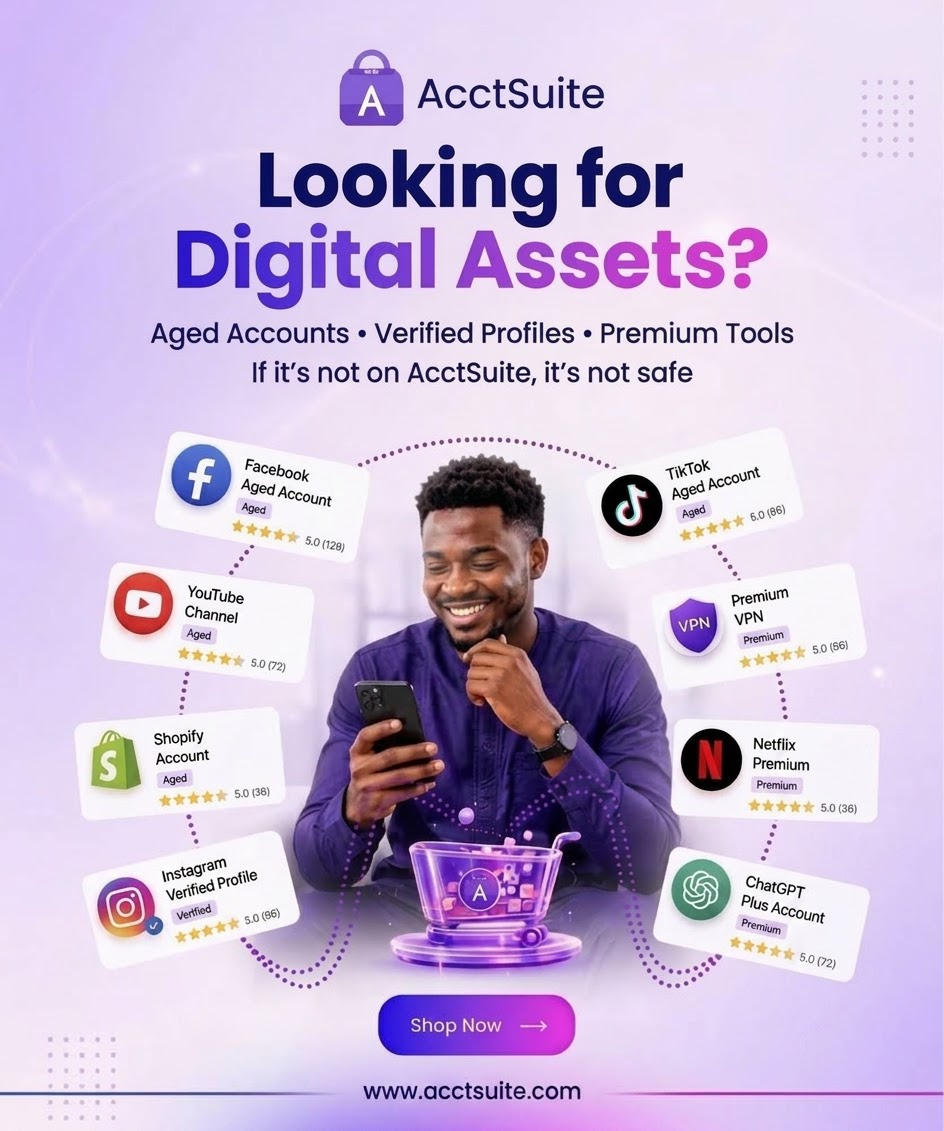
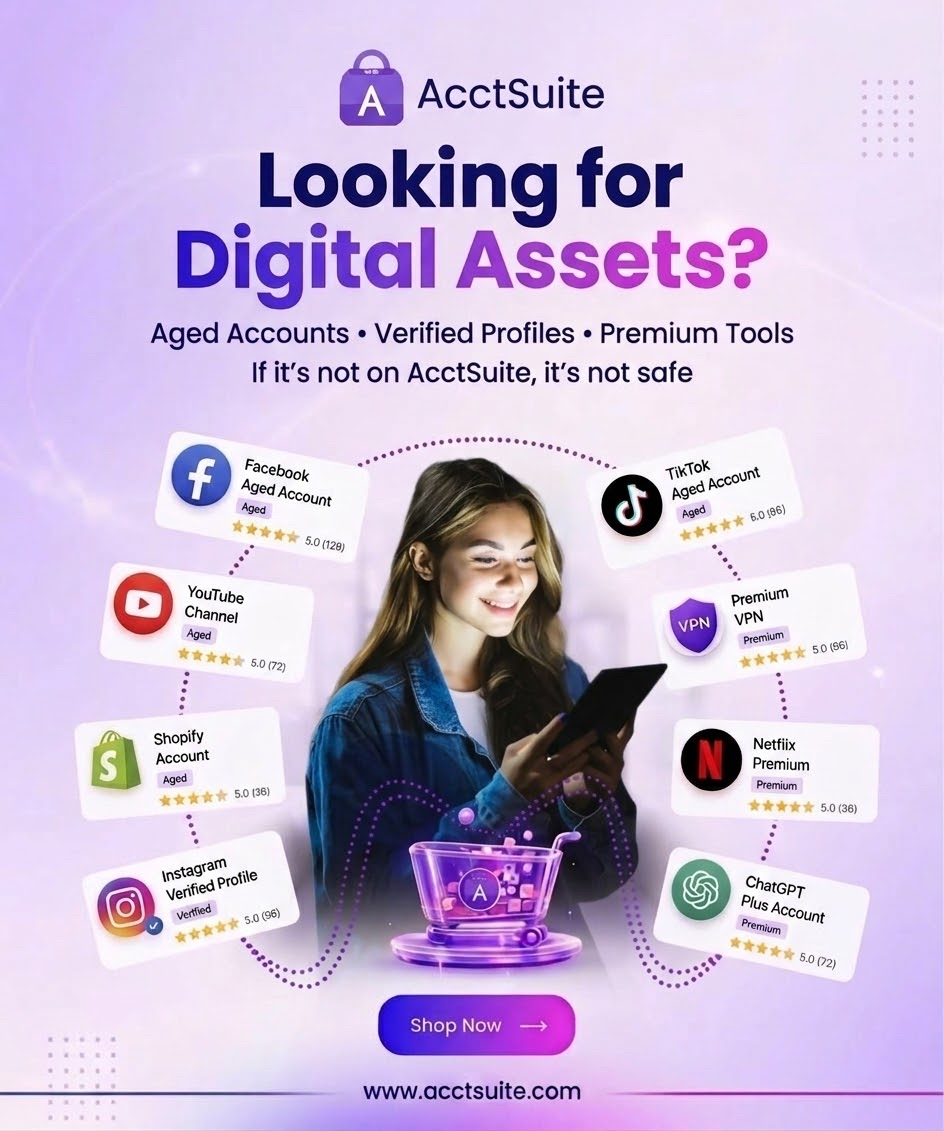
Add header HELP badge and new home promo image
Style the support headset with a green HELP pill like the reference,
and replace the home marketplace text banner with the new AcctSuite
digital-assets promo creative.

Changed region(s): [[0.2765, 0.4023, 0.7373, 0.8665]]

diff --git a/acctsuite/dashboard.html b/acctsuite/dashboard.html
@@ -158,6 +158,57 @@
         @media (min-width: 640px) {
             .as-brand-lockup .as-brand-word { font-size: 1.65rem; }
         }
+        /* Header HELP control — green pill over headset (reference style) */
+        .as-help-btn {
+            display: inline-flex;
+            flex-direction: column;
+            align-items: center;
+            justify-content: center;
+            gap: 0.12rem;
+            padding-right: 0.55rem;
+            margin-right: 0.05rem;
+            border-right: 1px solid #e2e8f0;
+            line-height: 1;
+            color: inherit;
+            transition: color 0.15s ease;
+        }
+        .dark .as-help-btn { border-right-color: #334155; }
+        .as-help-btn:hover { color: #8B5CF6; }
+        .as-help-pill {
+            display: inline-flex;
+            align-items: center;
+            justify-content: center;
+            padding: 0.12rem 0.38rem;
+            border-radius: 999px;
+            background: #22c55e;
+            color: #fff;
+            font-size: 0.5625rem;
+            font-weight: 800;
+            letter-spacing: 0.06em;
+            line-height: 1.15;
+            text-transform: uppercase;
+            box-shadow: 0 1px 2px rgba(0,0,0,0.18);
+        }
+        .as-help-btn > i { font-size: 1.05rem; line-height: 1; }
+        .as-home-promo {
+            display: block;
+            width: 100%;
+            border-radius: 0.75rem;
+            overflow: hidden;
+            box-shadow: 0 4px 14px rgba(15, 23, 42, 0.12);
+            line-height: 0;
+        }
+        .as-home-promo img {
+            display: block;
+            width: 100%;
+            height: auto;
+            max-height: 22rem;
+            object-fit: cover;
+            object-position: center top;
+        }
+        @media (min-width: 480px) {
+            .as-home-promo img { max-height: 26rem; }
+        }
     </style>
     <script src="/js/mobile-fix.js?v=bagA5fix"></script>
     <script src="/js/ui-toast.js?v=bagA5fix"></script>
@@ -176,8 +227,9 @@
             </div>
             <div class="flex items-center gap-2.5 text-slate-800 dark:text-white shrink-0">
                 <div id="headerAuthIcons" data-auth-only class="hidden items-center gap-2 sm:gap-3">
-                    <button type="button" onclick="openSupportCenter()" class="border-r border-slate-200 dark:border-slate-700 pr-2 hover:text-brandPrimary transition" title="Support">
-                        <i class="fa-solid fa-headset text-lg"></i>
+                    <button type="button" onclick="openSupportCenter()" class="as-help-btn" title="Help" aria-label="Help">
+                        <span class="as-help-pill">HELP</span>
+                        <i class="fa-solid fa-headset" aria-hidden="true"></i>
                     </button>
                     <button type="button" onclick="toggleNotificationDrawer()" class="relative inline-flex items-center justify-center w-10 h-10 rounded-full bg-brandPrimary/15 text-brandPrimary hover:bg-brandPrimary hover:text-white transition" title="Notifications" aria-label="Open notifications">
                         <i class="fa-solid fa-bell text-lg"></i>
@@ -230,15 +282,10 @@
             <!-- Filter Chips (built from catalog) -->
             <div id="homeFilterChips" class="flex gap-1.5 overflow-x-auto pb-1 scrollbar-none text-xs"></div>
 
-            <!-- Platform banner -->
-            <div class="rounded-xl p-3 flex justify-between items-center shadow-md relative overflow-hidden" style="background:linear-gradient(90deg,#7C3AED 0%,#1e3a8a 100%);color:#fff">
-                <div class="absolute -right-6 -top-6 w-20 h-20 rounded-full blur-xl" style="background:rgba(255,255,255,0.1)"></div>
-                <div class="relative z-10 pr-2 min-w-0">
-                    <span class="text-[10px] font-bold tracking-wide" style="color:#ede9fe">SECURE MARKETPLACE</span>
-                    <p class="font-bold text-sm mt-0.5 leading-snug" style="color:#fff">Buy &amp; sell with escrow protection</p>
-                </div>
-                <button type="button" onclick="openSupportCenter()" class="relative z-10 bg-white text-brandPrimary text-[10px] font-bold px-2.5 py-1 rounded-full shrink-0">Support</button>
-            </div>
+            <!-- Home promo (AcctSuite digital assets creative) -->
+            <button type="button" onclick="switchTab('market')" class="as-home-promo text-left" aria-label="Looking for Digital Assets? Shop on AcctSuite">
+                <img src="/img/marketing/hero-digital-assets.jpg?v=promoHelp1" alt="Looking for Digital Assets? Aged accounts, verified profiles, and premium tools on AcctSuite" width="944" height="1131" loading="lazy" decoding="async">
+            </button>
 <!-- Trending Catalog -->
             <div>
                 <div class="flex justify-between items-center mb-2">
